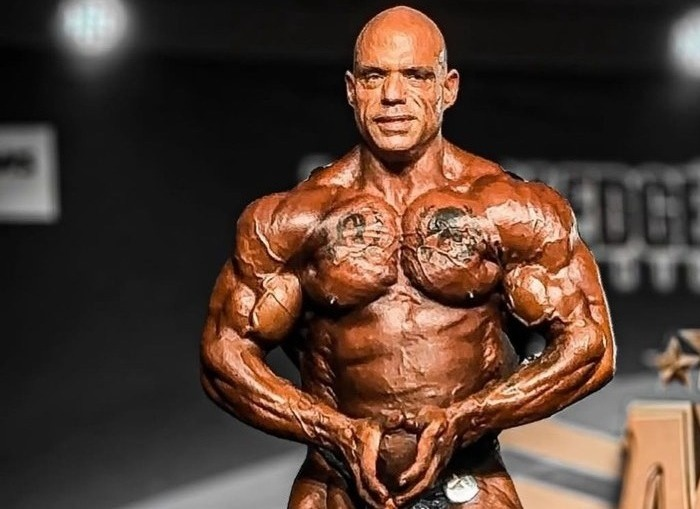
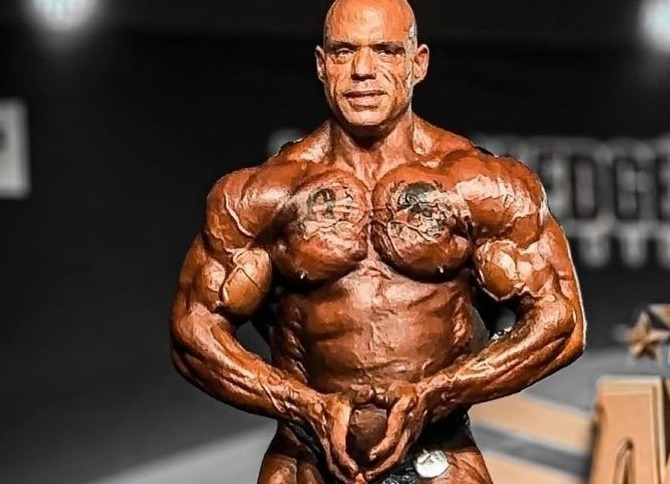
Add 6th about photo, enhance Training Home, final IG crop cleanup
- Add "In the Trenches" gym photo as 6th about photo (fills grid)
- Enhance Training Home card: deeper background gradient, box shadow,
  gold gradient label, larger gym names, more padding
- Final crop on champion-2024: removed last IG icon remnant top-left

https://claude.ai/code/session_01Yabx9uNFuZQ9oobBMWA1fP

diff --git a/index.html b/index.html
@@ -370,13 +370,15 @@ button{font-family:inherit;cursor:pointer;border:none;background:none}a,button{t
 .about-photos{display:grid;grid-template-columns:repeat(5,1fr);gap:12px;margin-bottom:56px}
 .about-photos .circle-photo{aspect-ratio:1/1;border-radius:12px}
 /* Training home block */
-.about-home{text-align:center;padding:28px 24px;border:1px solid var(--borderS);border-radius:14px;max-width:560px;margin:0 auto;
+.about-home{text-align:center;padding:48px 32px;border:1px solid var(--border);border-radius:14px;max-width:620px;margin:0 auto;
+  background:linear-gradient(135deg,rgba(224,176,48,.04) 0%,rgba(10,8,4,.6) 30%,rgba(10,8,4,.8) 70%,rgba(224,176,48,.04) 100%);
+  box-shadow:0 8px 40px rgba(0,0,0,.4),0 0 60px rgba(224,176,48,.03),inset 0 1px 0 rgba(224,176,48,.08);
   background:linear-gradient(145deg,rgba(0,0,0,.35),rgba(224,176,48,.015));position:relative;transition:all .4s var(--ease)}
 .about-home::before{content:'';position:absolute;top:0;left:20%;right:20%;height:1px;background:var(--goldGrad);opacity:.15}
 .about-home:hover{border-color:var(--borderH)}
-.about-home-label{font-family:var(--mono);font-size:9px;letter-spacing:.24em;text-transform:uppercase;color:var(--acc);margin-bottom:14px}
+.about-home-label{font-family:var(--mono);font-size:10px;letter-spacing:.3em;text-transform:uppercase;color:var(--acc);margin-bottom:20px;background:var(--goldGrad);background-size:300% 100%;-webkit-background-clip:text;-webkit-text-fill-color:transparent;background-clip:text}
 .about-home-names{display:flex;flex-wrap:wrap;align-items:center;justify-content:center;gap:6px 16px;margin-bottom:10px}
-.about-home-names span,.about-home-names a{font-family:var(--display);font-size:clamp(15px,1.8vw,18px);font-weight:600;color:var(--wh);letter-spacing:.02em;text-decoration:none;transition:color .2s}
+.about-home-names span,.about-home-names a{font-family:var(--display);font-size:clamp(18px,2.2vw,22px);font-weight:700;color:var(--wh);letter-spacing:.03em;text-decoration:none;transition:color .3s}
 .about-home-names a:hover{color:var(--acc)}
 .about-home-dot{color:var(--borderH);font-size:10px}
 .about-home-meta{font-family:var(--mono);font-size:9px;letter-spacing:.16em;text-transform:uppercase;color:var(--dm);line-height:1.8}
@@ -823,6 +825,10 @@ img[loading="lazy"]{opacity:0;transition:opacity .6s var(--ease)}img[loading="la
       <div class="circle-photo" onclick="openLB(this)" role="button" tabindex="0" onkeydown="if(event.key==='Enter'||event.key===' '){event.preventDefault();openLB(this)}">
         <img src="img/about-dad.jpg" alt="Mike with his father" loading="lazy" style="object-position:center 25%">
         <div class="circle-label">Like father, like son</div>
+      </div>
+      <div class="circle-photo" onclick="openLB(this)" role="button" tabindex="0" onkeydown="if(event.key==='Enter'||event.key===' '){event.preventDefault();openLB(this)}">
+        <img src="img/about-gym-olympia.jpg" alt="Mike Ely at the gym" loading="lazy" style="object-position:center 15%">
+        <div class="circle-label">In the Trenches</div>
       </div>
     </div>
 
